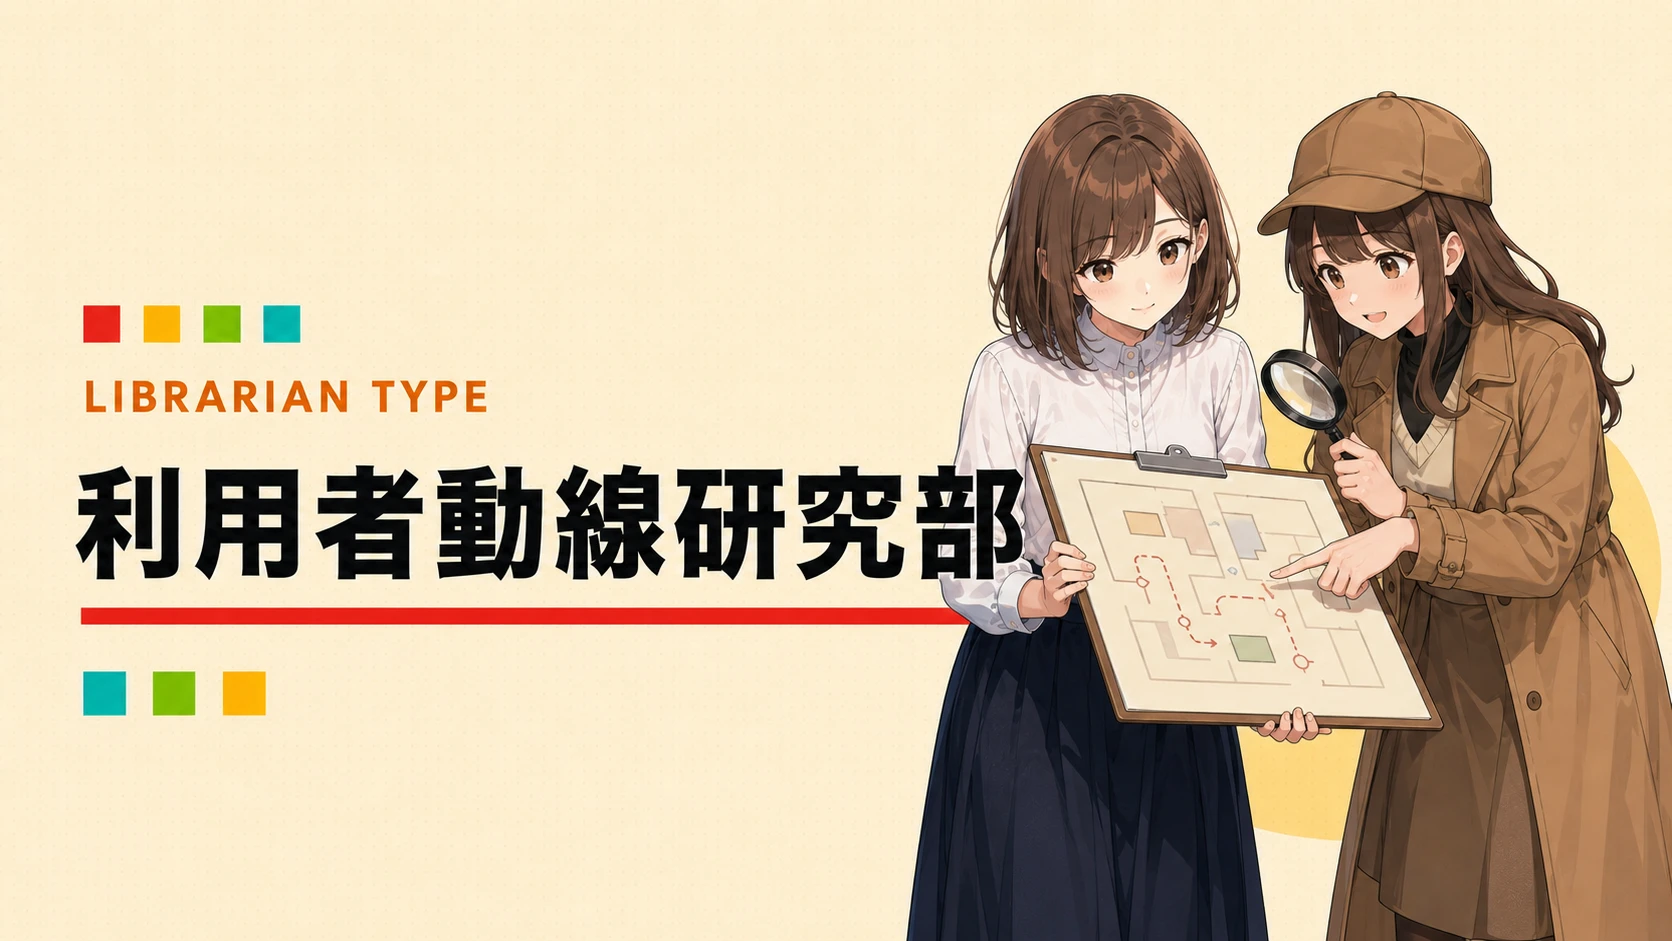
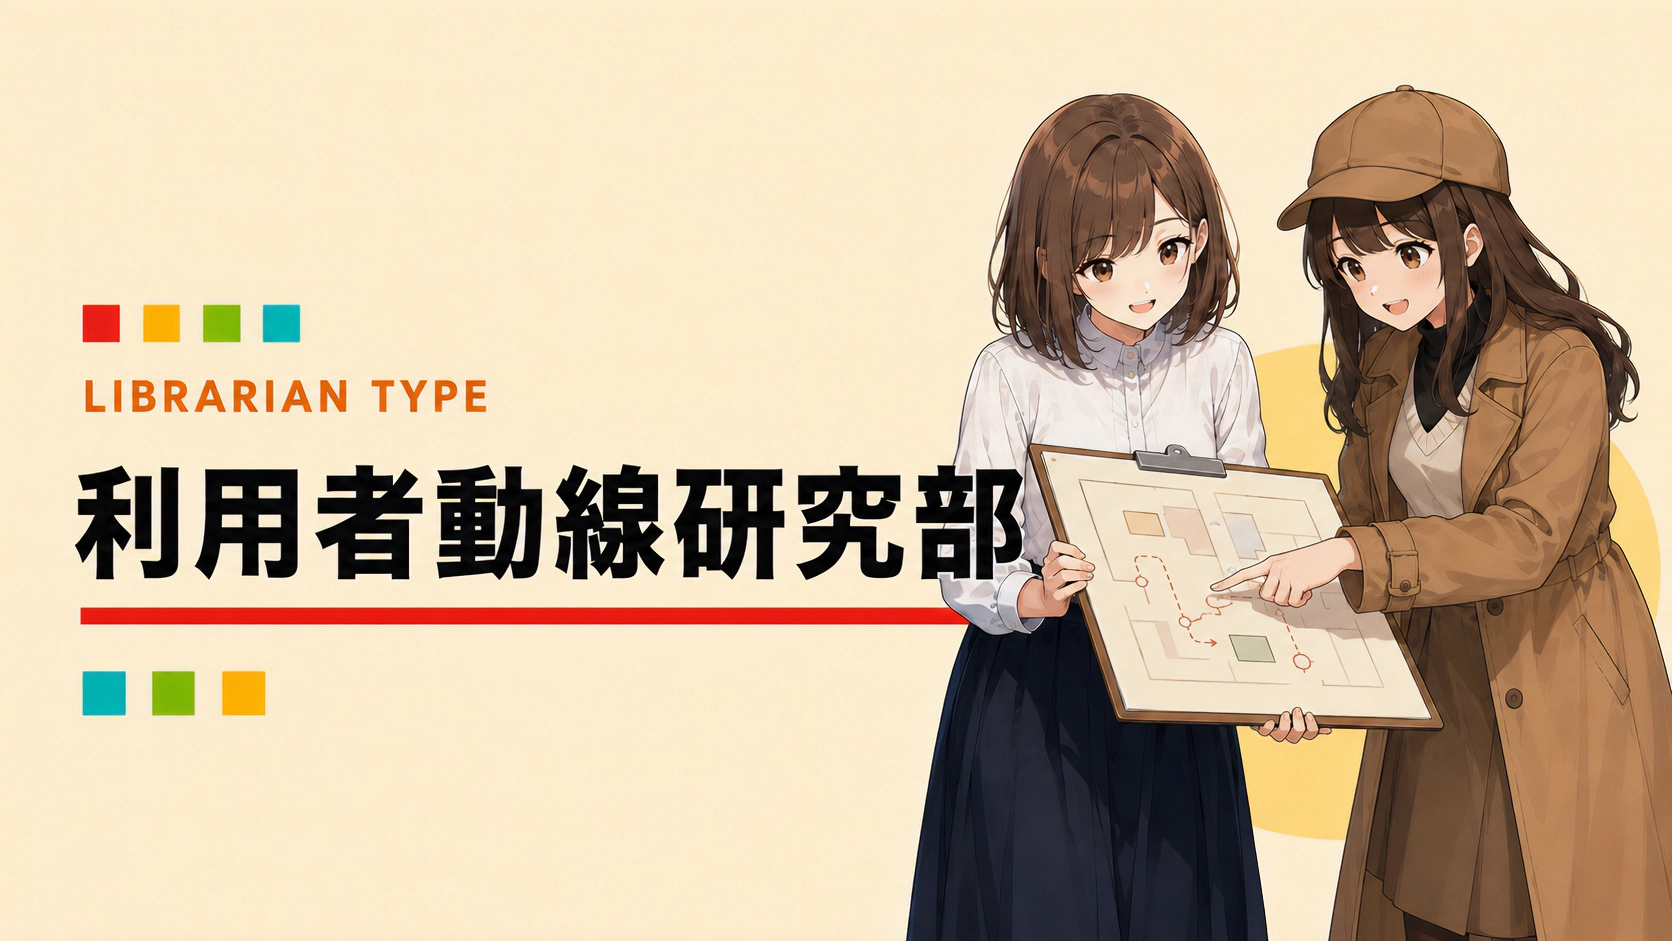
fix flow

diff --git a/app/globals.css b/app/globals.css
@@ -250,7 +250,8 @@ h1 { margin:0; }
 .types-intro::after { content:""; position:absolute; right:0; bottom:-3px; width:min(31%,260px); height:9px; background:linear-gradient(90deg,var(--hud-hot) 0 25%,var(--hud-gold) 25% 50%,var(--hud-accent) 50% 75%,var(--hud-teal) 75%); }
 .types-kicker { margin:0 0 22px; color:var(--hud-accent); font:900 .64rem/1 var(--font-ui); letter-spacing:.24em; }
 .types-intro-layout { display:grid; grid-template-columns:minmax(0,1fr) auto; align-items:end; gap:40px; }
-.types-intro h1 { max-width:920px; margin:0; font-size:clamp(2.4rem,6vw,6.2rem); font-weight:880; line-height:1.04; letter-spacing:-.06em; }
+.types-intro h1 { max-width:1200px; margin:0; font-size:clamp(2.4rem,6vw,6.2rem); font-weight:880; line-height:1.04; letter-spacing:-.06em; }
+.types-title-predicate { white-space:nowrap; }
 .types-description { margin:28px 0 0; color:#554b3d; font-size:clamp(.86rem,1.5vw,1rem); font-weight:600; line-height:1.9; }
 .archive-top-link { display:inline-grid; grid-template-columns:1fr auto; align-items:center; gap:18px; min-width:190px; min-height:50px; padding:11px 16px 11px 19px; color:var(--hud-text); background:rgba(255,251,241,.45); border:1px solid var(--hud-line); clip-path:polygon(0 0,calc(100% - 10px) 0,100% 10px,100% 100%,0 100%); font-size:.78rem; font-weight:850; letter-spacing:.06em; text-decoration:none; transition:color var(--hud-duration-fast) ease-out,background var(--hud-duration-fast) ease-out,transform var(--hud-duration-fast) ease-out; }
 .archive-top-link span { color:var(--hud-hot); transition:transform var(--hud-duration-fast) ease-out; }
@@ -330,6 +331,7 @@ h1 { margin:0; }
 }
 @media (min-width:761px) {
   .question-content h1 { max-width:none; white-space:pre; }
+  .types-title-subject { white-space:nowrap; }
 }
 @media (max-width:760px) {
   .site-shell { padding:12px; }

diff --git a/assets/styles.css b/assets/styles.css
@@ -250,7 +250,8 @@ h1 { margin:0; }
 .types-intro::after { content:""; position:absolute; right:0; bottom:-3px; width:min(31%,260px); height:9px; background:linear-gradient(90deg,var(--hud-hot) 0 25%,var(--hud-gold) 25% 50%,var(--hud-accent) 50% 75%,var(--hud-teal) 75%); }
 .types-kicker { margin:0 0 22px; color:var(--hud-accent); font:900 .64rem/1 var(--font-ui); letter-spacing:.24em; }
 .types-intro-layout { display:grid; grid-template-columns:minmax(0,1fr) auto; align-items:end; gap:40px; }
-.types-intro h1 { max-width:920px; margin:0; font-size:clamp(2.4rem,6vw,6.2rem); font-weight:880; line-height:1.04; letter-spacing:-.06em; }
+.types-intro h1 { max-width:1200px; margin:0; font-size:clamp(2.4rem,6vw,6.2rem); font-weight:880; line-height:1.04; letter-spacing:-.06em; }
+.types-title-predicate { white-space:nowrap; }
 .types-description { margin:28px 0 0; color:#554b3d; font-size:clamp(.86rem,1.5vw,1rem); font-weight:600; line-height:1.9; }
 .archive-top-link { display:inline-grid; grid-template-columns:1fr auto; align-items:center; gap:18px; min-width:190px; min-height:50px; padding:11px 16px 11px 19px; color:var(--hud-text); background:rgba(255,251,241,.45); border:1px solid var(--hud-line); clip-path:polygon(0 0,calc(100% - 10px) 0,100% 10px,100% 100%,0 100%); font-size:.78rem; font-weight:850; letter-spacing:.06em; text-decoration:none; transition:color var(--hud-duration-fast) ease-out,background var(--hud-duration-fast) ease-out,transform var(--hud-duration-fast) ease-out; }
 .archive-top-link span { color:var(--hud-hot); transition:transform var(--hud-duration-fast) ease-out; }
@@ -330,6 +331,7 @@ h1 { margin:0; }
 }
 @media (min-width:761px) {
   .question-content h1 { max-width:none; white-space:pre; }
+  .types-title-subject { white-space:nowrap; }
 }
 @media (max-width:760px) {
   .site-shell { padding:12px; }

diff --git a/static/types-template.html b/static/types-template.html
@@ -47,7 +47,7 @@
           <p class="types-kicker">TYPE ARCHIVE / 16 TYPES</p>
           <div class="types-intro-layout">
             <div>
-              <h1 id="types-title">16の図書館員タイプを<br>のぞいてみる。</h1>
+              <h1 id="types-title"><span class="types-title-subject">16の図書館員タイプを</span> <span class="types-title-predicate">のぞいてみる。</span></h1>
               <p class="types-description">診断結果は全部で16タイプ。<br>気になるタイプを、のぞいてみてください。</p>
             </div>
             <a class="archive-top-link" href="../">診断してみる <span aria-hidden="true">→</span></a>

diff --git a/types/index.html b/types/index.html
@@ -47,7 +47,7 @@
           <p class="types-kicker">TYPE ARCHIVE / 16 TYPES</p>
           <div class="types-intro-layout">
             <div>
-              <h1 id="types-title">16の図書館員タイプを<br>のぞいてみる。</h1>
+              <h1 id="types-title"><span class="types-title-subject">16の図書館員タイプを</span> <span class="types-title-predicate">のぞいてみる。</span></h1>
               <p class="types-description">診断結果は全部で16タイプ。<br>気になるタイプを、のぞいてみてください。</p>
             </div>
             <a class="archive-top-link" href="../">診断してみる <span aria-hidden="true">→</span></a>
